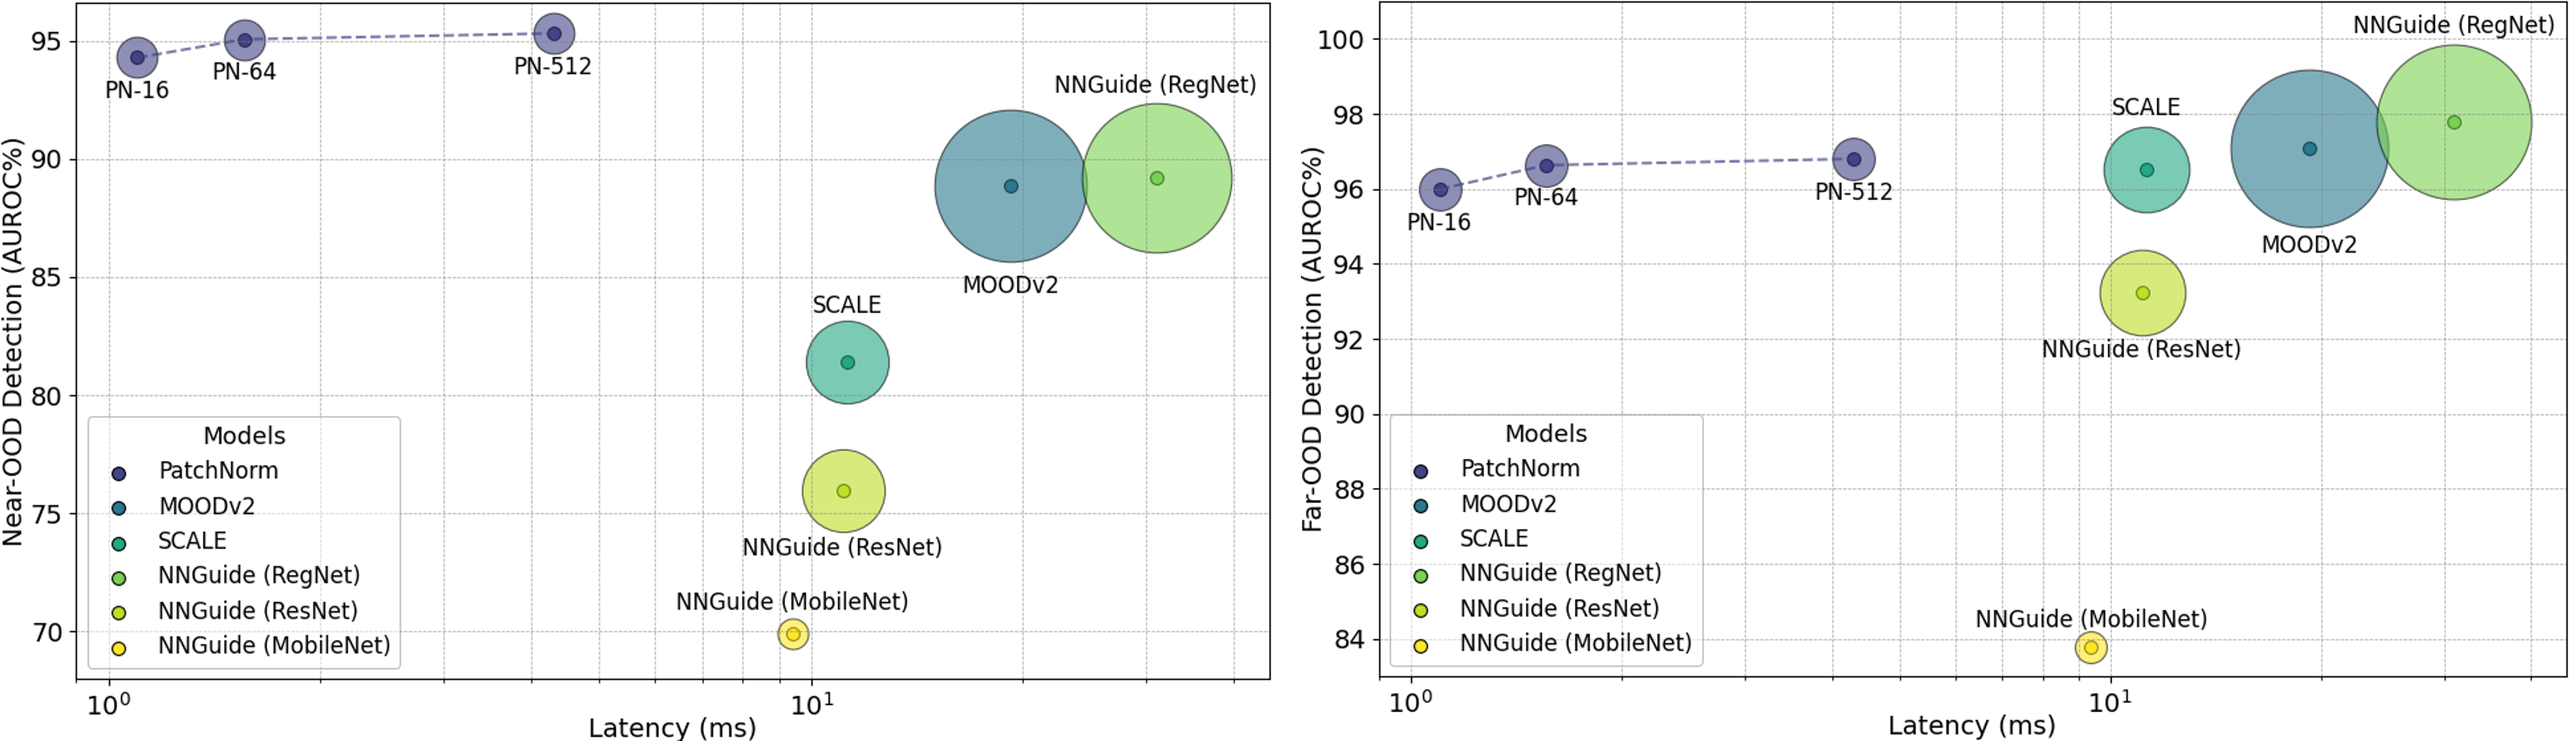
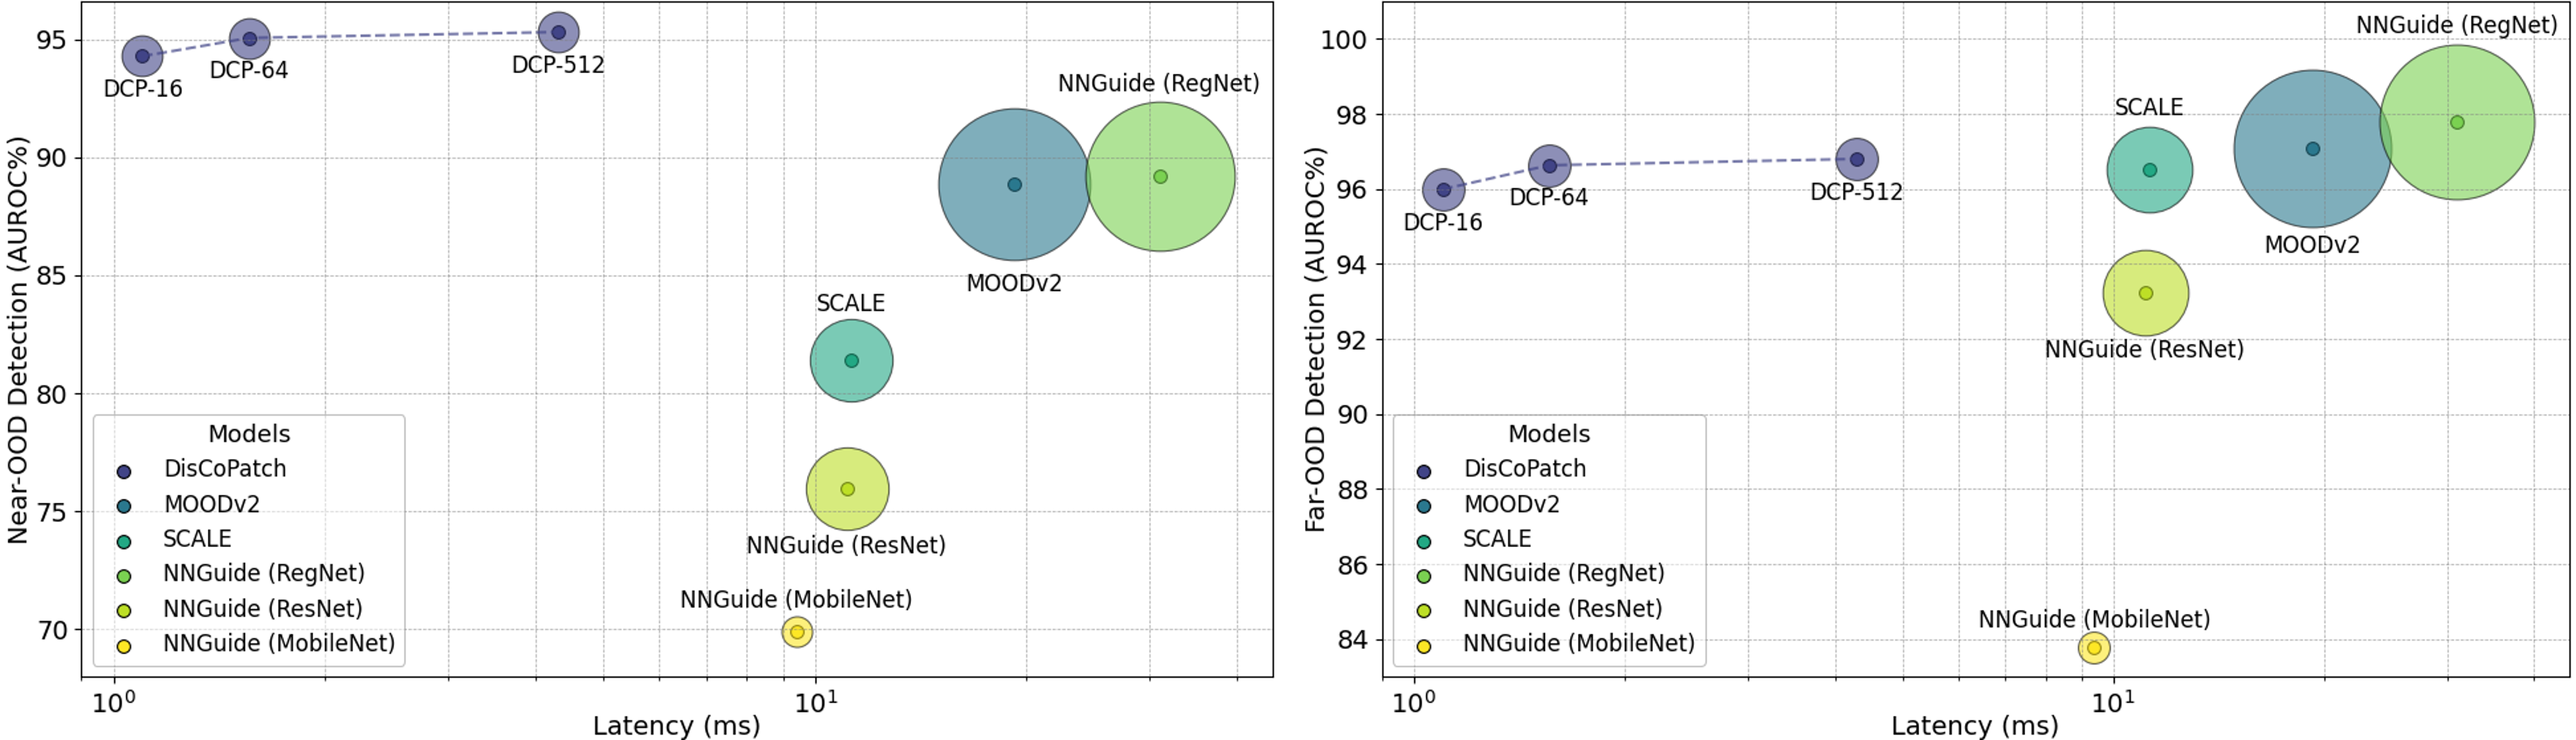
updated discopatch

diff --git a/discopatch.html b/discopatch.html
@@ -3,10 +3,10 @@
 <head>
   <meta charset="utf-8">
   <meta name="description"
-        content="BatchNorm Might Be All You Need, But Only If You Trust Batch Statistics">  <!-- TODO: fill this field -->
+        content="DisCoPatch: Batch Statistics Are All You Need For OOD Detection, But Only If You Can Trust Them">  <!-- TODO: fill this field -->
   <meta name="keywords" content="Keywords">  <!-- TODO: fill this field -->
   <meta name="viewport" content="width=device-width, initial-scale=1">
-  <title>PatchNorm</title>  <!-- TODO: fill this field -->
+  <title>DisCoPatch</title>  <!-- TODO: fill this field -->
   <link rel="icon" href="logos/discoball.jpg">
 
   <!-- Global site tag (gtag.js) - Google Analytics -->
@@ -74,7 +74,7 @@
     <div class="container is-max-desktop">
       <div class="columns is-centered">
         <div class="column has-text-centered">
-          <h1 class="title is-1 publication-title">BatchNorm Might Be All You Need, But Only If You Trust Batch Statistics</h1>  <!-- TODO: fill this field -->
+          <h1 class="title is-1 publication-title">DisCoPatch: Batch Statistics Are All You Need For OOD Detection, But Only If You Can Trust Them</h1>  <!-- TODO: fill this field -->
           <div class="is-size-5 publication-authors">    <!-- TODO: complete this field -->
             <span class="author-block">
               <a href="index.html">Francisco Caetano</a><sup>1</sup>,</span>
@@ -90,7 +90,7 @@
 
           <div class="is-size-5 publication-authors">
             <span class="author-block"><sup>1</sup>Eindhoven University of Technology</span>
-            <p>Submitted to CVPR 2025</p>  <!-- TODO: complete this field -->
+            <p>Under Review</p>  <!-- TODO: complete this field -->
           </div>
 
           <div class="column has-text-centered">
@@ -116,7 +116,7 @@
               </span>
               <!-- Code Link. -->
               <span class="link-block">  <!-- TODO: fill this field -->
-                <a href="https://github.com/caetas/PatchNorm" target="_blank"
+                <a href="https://github.com/caetas/DisCoPatch" target="_blank"
                    class="external-link button is-normal is-rounded is-dark">
                   <span class="icon">
                       <i class="fab fa-github"></i>
@@ -135,12 +135,12 @@
 <section class="hero teaser">
   <div class="container is-max-desktop">
     <div class="hero-body">
-      <img src="images/PatchNorm.png"
+      <img src="images/DisCoPatch.png"
                  class="interpolation-image"
                  alt="description of what image is showing."/>
           </div>
       <h2 class="subtitle has-text-centered">  <!-- TODO: fill this field -->
-        PatchNorm's approach combines generative and reconstruction-based strategies to distill information about the in-distribution set and out-of-distribution boundaries to the Discriminator.
+        DisCoPatch's approach combines generative and reconstruction-based strategies to distill information about the in-distribution set and out-of-distribution boundaries to the Discriminator.
       </h2>
     </div>
   </div>
@@ -158,17 +158,17 @@
               - you can use paragraph sections to make the abstract much more reader friendly.
               - use <i></i> to highlight parts of text -->
           <p>
-            Out-of-distribution (OOD) detection holds significant importance across various applications. While semantic and domain-shift OOD problems are well-documented, this work 
-            focuses on the nuances of covariate shifts, which entail subtle perturbations or variations in the data distribution that can degrade machine learning performance. 
-            Existing OOD detection methods often struggle to effectively distinguish these covariate shifts from in-distribution instances, emphasizing the need for specialized solutions. 
-            This work uncovers a critical limitation in Batch Normalization (BN): a heavy dependence on batch-level statistics over learned mean and variance values.
+            Out-of-distribution (OOD) detection holds significant importance across many applications. While semantic and domain-shift OOD problems are well-studied, this work focuses on covariate 
+            shifts - subtle variations in the data distribution that can degrade machine learning performance. We hypothesize that detecting these subtle shifts can improve our understanding of 
+            in-distribution boundaries, ultimately improving OOD detection.
           </p>
           <p>
-            We argue that this inherent bias can be harnessed for efficient OOD detection by introducing PatchNorm, an Adversarial Variational Autoencoder (VAE) framework that structures batches 
-            with patches from the same image. PatchNorm uses the VAE's suboptimal outputs as negative samples to train the discriminator, thereby improving its ability to delineate the boundary 
-            between in-distribution samples and covariate shifts. By tightening this in-distribution boundary, PatchNorm achieves state-of-the-art results in public OOD detection benchmarks. 
-            The proposed model not only excels in detecting covariate shifts, achieving 95.5% AUROC on ImageNet-1K(-C), but also outperforms all prior methods on public Near-OOD (95.0%) benchmarks. 
-            With a model size of <span>&#8804;</span>25MB, it significantly reduces latency compared to existing methods. 
+            WIn adversarial discriminators trained with Batch Normalization (BN), real and adversarial samples form distinct domains with unique batch statistics — a property we exploit for OOD detection. 
+            We introduce DisCoPatch, an unsupervised Adversarial Variational Autoencoder (VAE) framework that harnesses this mechanism. During inference, batches consist of patches from the same image, ensuring 
+            a consistent data distribution that allows the model to rely on batch statistics. DisCoPatch uses the VAE's suboptimal outputs (generated and reconstructed) as negative samples to train the discriminator, 
+            thereby improving its ability to delineate the boundary between in-distribution samples and covariate shifts. By tightening this boundary, DisCoPatch achieves state-of-the-art results in public OOD detection benchmarks. 
+            The proposed model not only excels in detecting covariate shifts, achieving 95.5% AUROC on ImageNet-1K(-C), but also outperforms all prior methods on public Near-OOD (95.0%) benchmarks. With a compact model size 
+            of <span>&#8804;</span>25MB, it achieves high OOD detection performance at notably lower latency than existing methods, making it an efficient and practical solution for real-world OOD detection applications. 
           </p>
         </div>
       </div>
@@ -181,19 +181,25 @@
     <!-- Content section 1. -->
     <div class="columns is-centered">
       <div class="column is-full-width">
-        <h2 class="title is-3">PatchNorm</h2>
+        <h2 class="title is-3">DisCoPatch</h2>
         <div class="content has-text-justified">
         <p>
-          Generative-based approaches for OOD detection typically involve utilizing the trained generator to evaluate the 
-          likelihood of unseen samples. An adversarially trained discriminator using BN deems that clean and adversarial images are drawn from two distinct domains, therefore it can provide 
-          a boundary for the ID set, by assessing the probability of a sample being real (ID) or synthetic (OOD). As a result, we propose 
-          a <b>Patch</b>-based Batch <b>Norm</b>alization, <b>PatchNorm</b>, an AdversarialVAE-inspired architecture.
+          A prevalent generative-based approach for OOD detection involves utilizing the trained generator to evaluate the likelihood of unseen samples. However, in adversarial setups, some information about the ID boundary 
+          will be incorporated into the discriminator, as it learns to assess the probability of a sample being real (ID) or synthetic (OOD). In this work, we exploit the observation that BN can help an adversarially trained 
+          discriminator to separate underlying data distributions by recognizing that clean and adversarial images are drawn from two distinct domains (i.e. ID and OOD), in such way that that it can provide a boundary for the 
+          ID set. By adjusting where the discriminator learns to draw this boundary, we can create an OOD detector.
+        </p>
+        <p>
+          It is on this premise that we propose a <b>Disc</b>riminative <b>Co</b>variate Shift <b>Patch</b>-based Network, <b>DisCoPatch</b>. DisCoPatch is an Adversarial VAE-inspired architecture, in which both the VAE and the 
+          discriminator are trained adversarially. DisCoPatch's approach combines generative and reconstruction-based strategies to distill information about the ID set and OOD boundaries to the discriminator during training in 
+          an unsupervised manner. Unlike traditional adversarial methods, DisCoPatch's focus is on leveraging the generator's output as a tool to refine the discriminator. DisCoPatch's discriminator only utilizes the current batch's 
+          (of patches) statistics in the <tt>BatchNorm2D</tt> layer.
         </p>
         </div>
         <br/>
 
         <!-- Paragraph 1. -->
-        <h3 class="title is-4">Overview</h3>
+        <h3 class="title is-4">Training</h3>
         <div class="content has-text-justified">
           <p>
             The VAE is trained to reduce the ELBO while also producing samples that can fool the discriminator. The discriminator 
@@ -212,12 +218,7 @@
                  alt="description of what image is showing."/>
             <p>Covariate Shifts can be simulated by reconstructed and generated patches. Encouraging more realism helps to tighten the border between the ID set and the OOD sets.</p>
           </div>
-        </div>
-
-        <!-- Paragraph 2. -->
-        <h3 class="title is-4">Training</h3>
-        <div class="content has-text-justified">
-          <p>The VAE in PatchNorm's framework remains unchanged when compared to the traditional VAE, with parameters <span style="font-style:italic;">θ</span> and composed of 
+          <p>The VAE in DisCoPatch's framework remains unchanged when compared to the traditional VAE, with parameters <span style="font-style:italic;">θ</span> and composed of 
             an encoder <span style="font-family: 'Times New Roman', Times, serif;">𝓔</span> and a decoder 
             <span style="font-family: 'Times New Roman', Times, serif;">𝓖</span> responsible for generating 
             an image output. The loss function of the VAE can be interpreted as a combination of a reconstruction term aimed at optimizing the 
@@ -235,21 +236,20 @@
           
             <p>The final VAE loss function is thus a weighted combination of both the Vanilla VAE loss and the adversarial loss.</p>
         </div>
-
         <br/>
         <!--/ Paragraph 2. -->
 
         <!-- Paragraph 3. -->
         <h3 class="title is-4">Patching Strategy</h3>
         <div class="content has-text-justified">
-          <p>The patching strategy starts with an input image, typically 256x256 in resolution, which is cropped into <i>N</i> random 
+          <p>The patching strategy begins by taking a high-resolution input image, typically a standard 256x256 in resolution, which is cropped into <i>N</i> random 
             patches of 64x64 each. This method enables the model to capture fine-grained details across various regions of the image. 
             During training, batches consist of patches from multiple images, not just one. This setup helps accelerate training and 
             ensures the model learns consistent ID features across different images, thus reducing the risk of overfitting to specific 
             image characteristics.</p>
           <p>During inference, batches are formed differently, with <i>N</i> patches taken from the same image. This ensures that the results 
             are independent per image. The final anomaly score for an image is the average score of all its patches. The model is referred to 
-            as PatchNorm-<i>N</i>, where <i>N</i> denotes the number of patches per image used during inference.</p>
+            as DisCoPatch-<i>N</i>, where <i>N</i> denotes the number of patches per image used during inference.</p>
             <div class="content has-text-centered">
               <img src="images/PatchingStrategy.png"
                    width="75%"
@@ -264,13 +264,13 @@
         <h3 class="title is-4">Model Performance</h3>
         <div class="content has-text-justified">
           <p>
-            PatchNorm excels in Covariate Shift detection, achieving an AUROC of 95.5% on ImageNet-1K(-C) and 
+            DisCoPatch excels in Covariate Shift detection, achieving an AUROC of 95.5% on ImageNet-1K(-C) and 
             outperforming all prior methods on Near-OOD detection with a score of 95.0%. Although the same does 
-            not occur for Far-OOD, PatchNorm's performance is competitive, and the model is only beaten by far larger and slower models.
+            not occur for Far-OOD, DisCoPatch's performance is competitive, and the model is only beaten by far larger and slower models.
           </p>
           
           <table style="width: 100%; text-align: center;">
-            <caption style="font-weight: bold; margin-bottom: 10px;">Table 1 - Performance of PatchNorm-64 trained on ImageNet-1K in OOD detection benchmarks.</caption>
+            <caption style="font-weight: bold; margin-bottom: 10px;">Table 1 - Performance of DisCoPatch-64 trained on ImageNet-1K in OOD detection benchmarks.</caption>
             <thead>
               <tr>
                 <th>OOD Type</th>
@@ -316,7 +316,7 @@
             </tbody>
           </table>
           
-          <p>Furthermore, PatchNorm achieves these results with significantly lower latency 
+          <p>Furthermore, DisCoPatch achieves these results with significantly lower latency 
             (up to one order of magnitude) and a model size of less than 25MB, making it a viable option 
             for real-time applications with limited resources.</p>
 

diff --git a/index.html b/index.html
@@ -160,7 +160,7 @@
     <ul>
         <li><a href="#">Home</a></li>
         <li><a href="#Pubs">Publication</a></li>
-        <li><a href="#Exp">Experiences</a></li>
+        <li><a href="#Exp">Experience</a></li>
     </ul>
 </nav>
 
@@ -277,7 +277,7 @@
                     </div>
                 </section>
                 
-                <h3 class="title is-3" id="Exp">Experiences</h3>
+                <h3 class="title is-3" id="Exp">Experience</h3>
                 <section class="experience">
                     <h4 class="title is-4">PhD Candidate <br><i>Eindhoven University of Technology</i></h4>
                     <ul style="list-style-type:circle">
